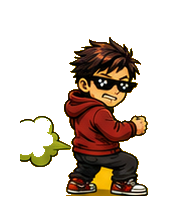
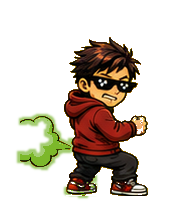
Clean man character sprite artifacts

diff --git a/tests/test_word_jump_overlay.py b/tests/test_word_jump_overlay.py
@@ -315,7 +315,22 @@ def test_man_sprite_keeps_beer_and_fart_effect_colors():
     ]
 
     assert len(beer_yellow_pixels) > 800
-    assert len(fart_green_pixels) > 600
+    assert len(fart_green_pixels) > 1200
+
+
+def test_man_sprite_has_no_yellow_sheet_background_between_legs():
+    frames_dir = Path("assets/mascot/man_character_frames")
+    for frame_name in ("18.png", "19.png", "20.png", "21.png", "22.png", "23.png"):
+        frame = Image.open(frames_dir / frame_name).convert("RGBA")
+        width, height = frame.size
+        suspicious_yellow_pixels = 0
+        for y in range(int(height * 0.72), height):
+            for x in range(int(width * 0.18), int(width * 0.73)):
+                red, green, blue, alpha = frame.getpixel((x, y))
+                if alpha > 40 and red > 165 and green > 90 and blue < 150 and red - blue > 60:
+                    suspicious_yellow_pixels += 1
+
+        assert suspicious_yellow_pixels < 40
 
 
 def test_street_fighter_combo_key_frames_have_readable_special_actions():
